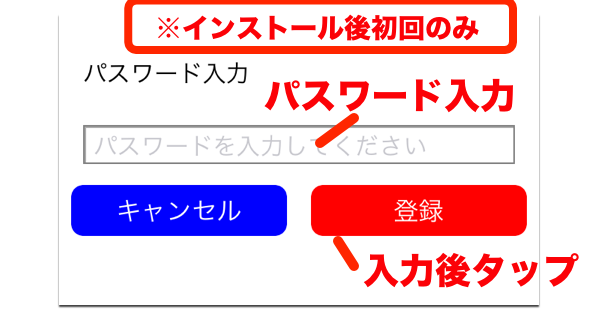
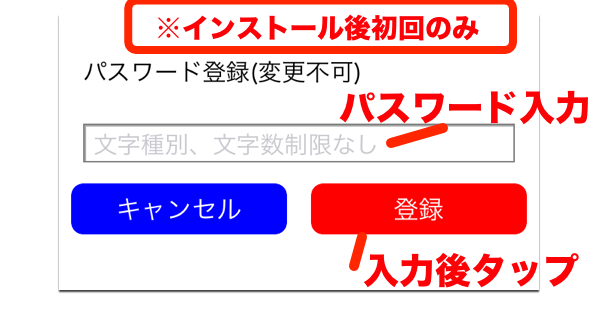
add 連絡網　電話、メールのリンク有効化

diff --git a/FireEmergency/Guide6Dialog.swift b/FireEmergency/Guide6Dialog.swift
@@ -20,6 +20,8 @@ class Guide6Dialog {
     private var text2: UITextView!
     private var image3: UIImageView!
     private var text3: UITextView!
+    private var image4: UIImageView!
+    private var text4: UITextView!
     private var btnClose: UIButton!
     
     //コンストラクタ
@@ -34,6 +36,8 @@ class Guide6Dialog {
         text2 = UITextView()
         image3 = UIImageView()
         text3 = UITextView()
+        image4 = UIImageView()
+        text4 = UITextView()
         btnClose = UIButton()
     }
     
@@ -49,6 +53,8 @@ class Guide6Dialog {
         text2 = nil
         image3 = nil
         text3 = nil
+        image4 = nil
+        text4 = nil
         btnClose = nil
     }
     
@@ -70,7 +76,7 @@ class Guide6Dialog {
         
         //scroll生成
         scroll.frame = CGRectMake(0,0,parent.view.frame.width-20,parent.view.frame.height-50)
-        scroll.contentSize = CGSizeMake(300,1200)
+        scroll.contentSize = CGSizeMake(300,1900)
         self.win1.addSubview(scroll)
         
         //TextView0生成
@@ -106,7 +112,7 @@ class Guide6Dialog {
         image2.frame = CGRectMake(0, 240, 300, 160)
         scroll.addSubview(image2)
         
-        //TextView1生成
+        //TextView2生成
         text2.frame = CGRectMake(0,410, 300, 80)
         text2.backgroundColor = UIColor.clearColor()
         text2.font = UIFont.systemFontOfSize(CGFloat(16))
@@ -123,7 +129,7 @@ class Guide6Dialog {
         image3.frame = CGRectMake(0, 520, 300, 200)
         scroll.addSubview(image3)
         
-        //TextView2生成
+        //TextView3生成
         text3.frame = CGRectMake(0,740, 300, 220)
         text3.backgroundColor = UIColor.clearColor()
         text3.font = UIFont.systemFontOfSize(CGFloat(16))
@@ -133,6 +139,23 @@ class Guide6Dialog {
         text3.scrollEnabled = true
         text3.text="③次回以降、設定したパスワードを入力すると連絡網を使用できます。\n④パスワードは[震災][風水害]などの同一画面では１度の入力で連絡網を使えますが、\n⑤画面を変える（[震災]→[風水害]など）またはアプリを終了すると再度入力する必要があります。\n⑥パスワードは変更できません。変更する場合はアプリを削除し、再度インストールして設定してください。"
         scroll.addSubview(text3)
+        
+        //image4生成
+        let img4 = UIImage(named: "guide64.png")
+        image4.image = img4
+        image4.frame = CGRectMake(0, 990, 300, 426)
+        scroll.addSubview(image4)
+        
+        //TextView4生成
+        text4.frame = CGRectMake(0, 1436, 300, 220)
+        text4.backgroundColor = UIColor.clearColor()
+        text4.font = UIFont.systemFontOfSize(CGFloat(16))
+        text4.textColor = UIColor.blackColor()
+        text4.textAlignment = NSTextAlignment.Left
+        text4.editable = false
+        text4.scrollEnabled = true
+        text4.text="■データ全件一覧表示\n　データ全件一覧を表示され、個別または選択した人にまとめてメール送信することが可能です。(電話はできません)\n\n■グループ検索\n　非常招集区分、所属(大分類)、所属(小分類)、勤務区分を選択し検索します。個別または選択した人にまとめてメール送信することが可能です。(電話はできません)"
+        scroll.addSubview(text4)
         
         //閉じるボタン生成
         btnClose.frame = CGRectMake(0,0,100,30)

diff --git a/FireEmergency/ContactCellCheckbox.swift b/FireEmergency/ContactCellCheckbox.swift
@@ -8,11 +8,11 @@
 
 import UIKit
 
-class ContactCellCheckbox: UITableViewCell {
+class ContactCellCheckbox: UITableViewCell, UITextViewDelegate {
     var checkbox: UIButton?
     var name : UILabel?
-    var tel  : UILabel?
-    var mail : UILabel?
+    var tel  : UITextView?
+    var mail : UITextView?
     var kubun: UILabel?
     var syozoku0: UILabel?
     var syozoku : UILabel?
@@ -36,9 +36,15 @@ class ContactCellCheckbox: UITableViewCell {
         name?.font = UIFont.systemFontOfSize(20)
         self.addSubview(name!)
         
-        tel = UILabel(frame: CGRectMake(141, 0, 160, 24))
+        tel = UITextView(frame: CGRectMake(141, -8, 160, 30))
         tel?.text = "nil"
         tel?.font = UIFont.systemFontOfSize(18)
+        tel?.userInteractionEnabled = true
+        tel?.dataDetectorTypes = .PhoneNumber
+        tel?.scrollEnabled = false
+        tel?.editable = false
+        tel?.selectable = true
+        tel?.delegate = self
         self.contentView.addSubview(tel!)
         
         kubun = UILabel(frame: CGRectMake(28, 28, 60, 16))
@@ -61,9 +67,15 @@ class ContactCellCheckbox: UITableViewCell {
         kinmu?.font = UIFont.systemFontOfSize(14)
         self.contentView.addSubview(kinmu!)
         
-        mail = UILabel(frame: CGRectMake(28, 48, 300, 18))
+        mail = UITextView(frame: CGRectMake(28, 44, 300, 24))
         mail?.text = "nil"
-        mail?.font = UIFont.systemFontOfSize(16)
+        mail?.font = UIFont.systemFontOfSize(14)
+        mail?.userInteractionEnabled = true
+        mail?.dataDetectorTypes = .Link
+        mail?.scrollEnabled = false
+        mail?.editable = false
+        mail?.selectable = true
+        mail?.delegate = self
         self.contentView.addSubview(mail!)
     }
     

diff --git a/FireEmergency/PassViewController.swift b/FireEmergency/PassViewController.swift
@@ -21,15 +21,15 @@ class PassViewController: UIViewController, UITextFieldDelegate {
         super.viewDidLoad()
         
         self.view.backgroundColor = UIColor(red:1.0, green:1.0, blue:1.0, alpha:1.0)
-        //パスワードを入力してください
-        lblPass.text = "パスワード入力"
-        lblPass.adjustsFontSizeToFitWidth = true
+        //lblPass生成
+        lblPass.text = "パスワード登録(変更不可)"
         lblPass.textColor = UIColor.blackColor()
         lblPass.textAlignment = NSTextAlignment.Left
         lblPass.translatesAutoresizingMaskIntoConstraints = false
         self.view.addSubview(lblPass)
+        
         //テキストフィールド
-        txtPass.placeholder = "パスワードを入力してください"
+        txtPass.placeholder = "文字種別、文字数制限なし"
         txtPass.adjustsFontSizeToFitWidth = true
         txtPass.textColor = UIColor.blackColor()
         txtPass.delegate = self
@@ -79,7 +79,7 @@ class PassViewController: UIViewController, UITextFieldDelegate {
     override func viewDidLayoutSubviews(){
         //制約
         self.view.addConstraints([
-            //ラベル
+            //text1
             Constraint(lblPass, .Top, to:self.view, .Top, constant:100),
             Constraint(lblPass, .Leading, to:self.view, .Leading, constant:16),
             Constraint(lblPass, .Width, to:self.view, .Width, multiplier:0.8, constant:0)
